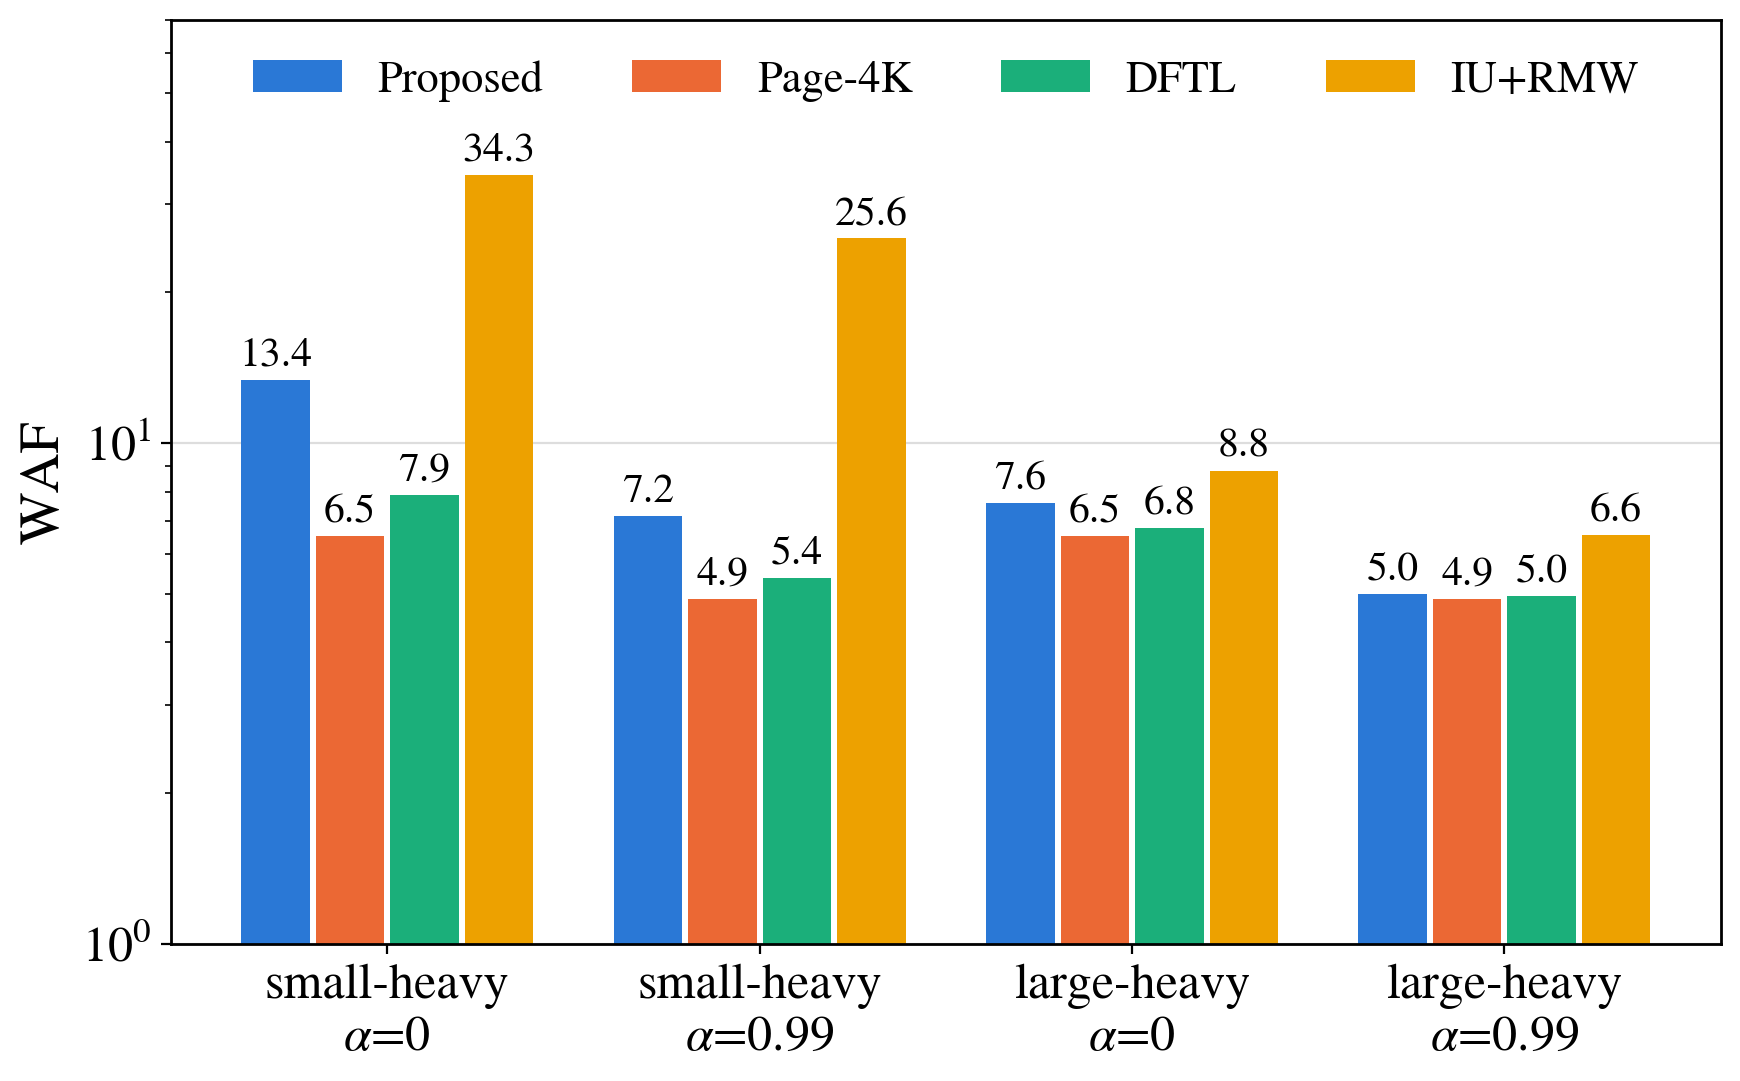
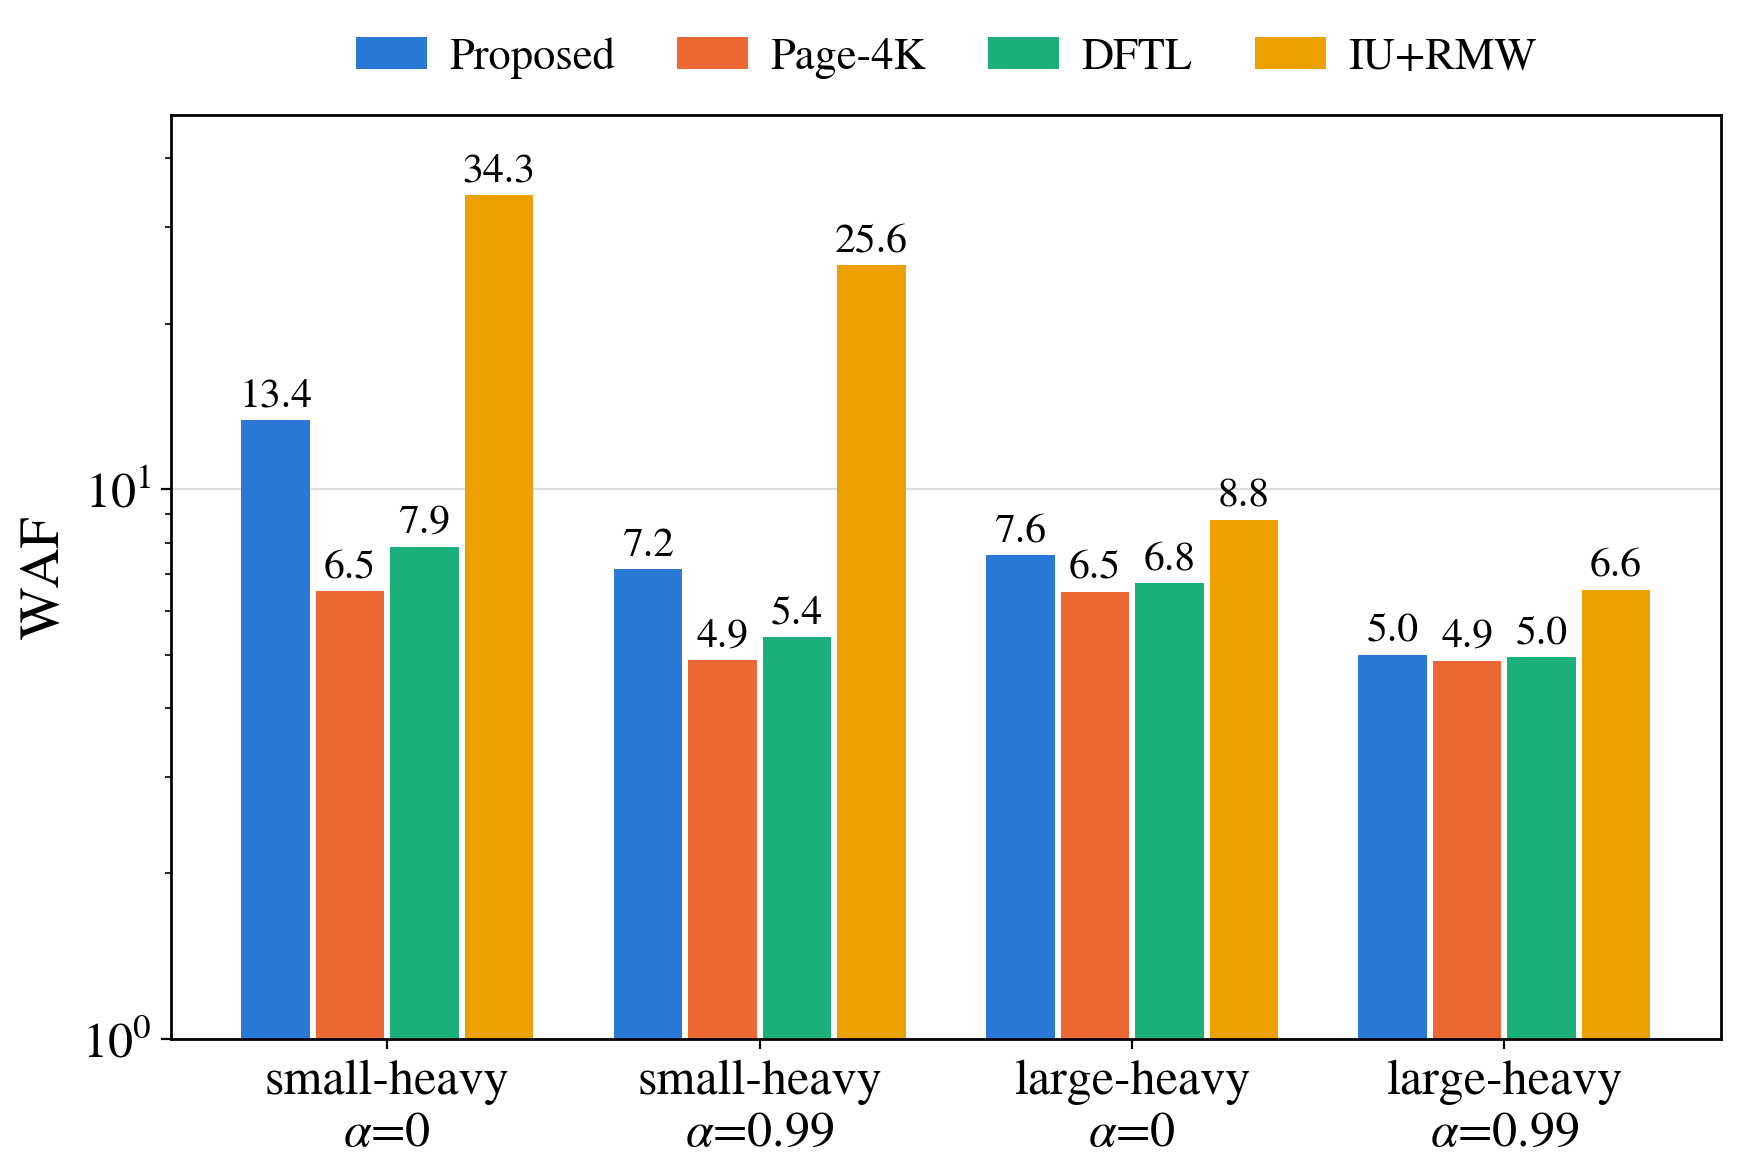
Move figure legends outside the axes (horizontal, above plot)

diff --git a/tools/plot.py b/tools/plot.py
@@ -95,6 +95,13 @@ def save(fig, stem):
     print("wrote", os.path.join(OUT, stem) + ".{pdf,png}")
 
 
+def outside_legend(ax, ncol, y=1.02):
+    """Horizontal legend above the axes."""
+    ax.legend(loc="lower center", bbox_to_anchor=(0.5, y), ncol=ncol,
+              frameon=False, handlelength=1.6, columnspacing=1.4,
+              handletextpad=0.5, borderaxespad=0.0)
+
+
 def fig_waf_zipf():
     fig, ax = plt.subplots(figsize=(9, 6))
     for tag, label, color, marker in POLICIES:
@@ -111,7 +118,7 @@ def fig_waf_zipf():
     ax.set_xlim(-0.25, len(ZS) - 0.75)
     ax.grid(axis="y", color="#dddddd", linewidth=0.8)
     ax.set_axisbelow(True)
-    ax.legend(ncol=2, frameon=False, loc="upper right")
+    outside_legend(ax, 4)
     save(fig, "fig1_waf_zipf")
 
 
@@ -133,13 +140,13 @@ def fig_waf_sizes():
                         ha="center", va="bottom", fontsize=15, xytext=(0, 2),
                         textcoords="offset points")
     ax.set_yscale("log")
-    ax.set_ylim(1, 70)
+    ax.set_ylim(1, 48)
     ax.set_xticks(x)
     ax.set_xticklabels([g[0] for g in groups])
     ax.set_ylabel("WAF")
     ax.grid(axis="y", color="#dddddd", linewidth=0.8)
     ax.set_axisbelow(True)
-    ax.legend(ncol=4, frameon=False, loc="upper center")
+    outside_legend(ax, 4)
     save(fig, "fig2_waf_sizes")
 
 
@@ -189,7 +196,7 @@ def fig_breakdown_proposed():
     ax.set_xticklabels(ZS)
     ax.set_xlabel(r"Zipf skew $\alpha$ (IU rank)")
     ax.set_ylabel("NAND writes per host page")
-    ax.legend(frameon=False, loc="upper right")
+    outside_legend(ax, 3)
     ax.grid(axis="y", color="#dddddd", linewidth=0.8)
     ax.set_axisbelow(True)
     save(fig, "fig4_breakdown_proposed")
@@ -224,8 +231,8 @@ def fig_breakdown_policies():
     ax.set_xticks(x)
     ax.set_xticklabels(labels, fontsize=15)
     ax.set_ylabel("NAND writes per host page")
-    ax.legend(frameon=False, ncol=4, loc="upper center")
-    ax.set_ylim(0, max(tot) * 1.28)
+    outside_legend(ax, 4)
+    ax.set_ylim(0, max(tot) * 1.12)
     ax.grid(axis="y", color="#dddddd", linewidth=0.8)
     ax.set_axisbelow(True)
     save(fig, "fig5_breakdown_policies")
@@ -249,8 +256,7 @@ def fig_seq():
     ax.set_xticks(x)
     ax.set_xticklabels([m[1] for m in mods])
     ax.set_ylabel("WAF")
-    ax.set_title("Sequential 4 KiB writes", fontsize=18)
-    ax.legend(frameon=False, loc="upper left")
+    outside_legend(ax, 2)
     ax.grid(axis="y", color="#dddddd", linewidth=0.8)
     ax.set_axisbelow(True)
     save(fig, "fig6_seq_4k")
@@ -270,10 +276,10 @@ def fig_waf_zipf_main():
     ax.set_xlabel(r"Zipf skew $\alpha$ (IU rank)")
     ax.set_ylabel("WAF")
     ax.set_xlim(-0.15, len(ZS) - 0.85)
-    ax.set_ylim(0, 14.5)
+    ax.set_ylim(0, 13.5)
     ax.grid(axis="y", color="#dddddd", linewidth=0.8)
     ax.set_axisbelow(True)
-    ax.legend(frameon=False, loc="upper right")
+    outside_legend(ax, 4)
     save(fig, "fig1b_waf_zipf_main")
 
 
@@ -297,8 +303,8 @@ def fig_map_read():
     ax.set_xticklabels(ZS)
     ax.set_xlabel(r"Zipf skew $\alpha$ (IU rank)")
     ax.set_ylabel("Synchronous map reads\nper host page")
-    ax.set_ylim(0, max(dftl) * 1.25)
-    ax.legend(frameon=False, loc="upper right")
+    ax.set_ylim(0, max(dftl) * 1.15)
+    outside_legend(ax, 2)
     ax.grid(axis="y", color="#dddddd", linewidth=0.8)
     ax.set_axisbelow(True)
     save(fig, "fig7_map_read")
